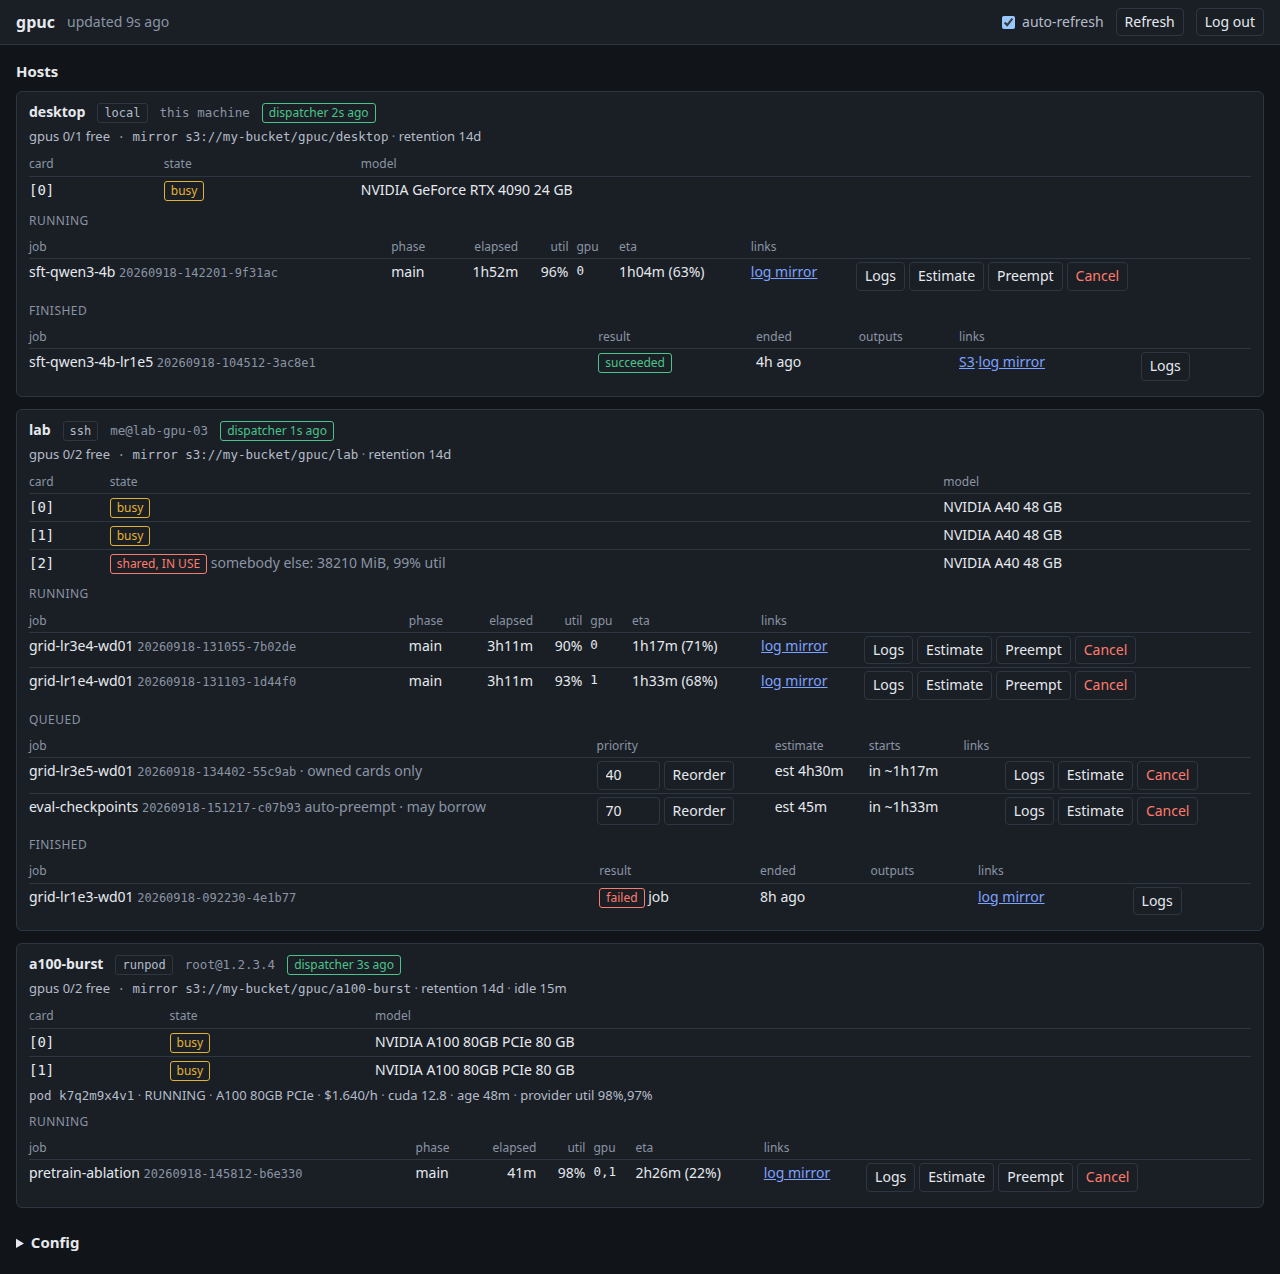
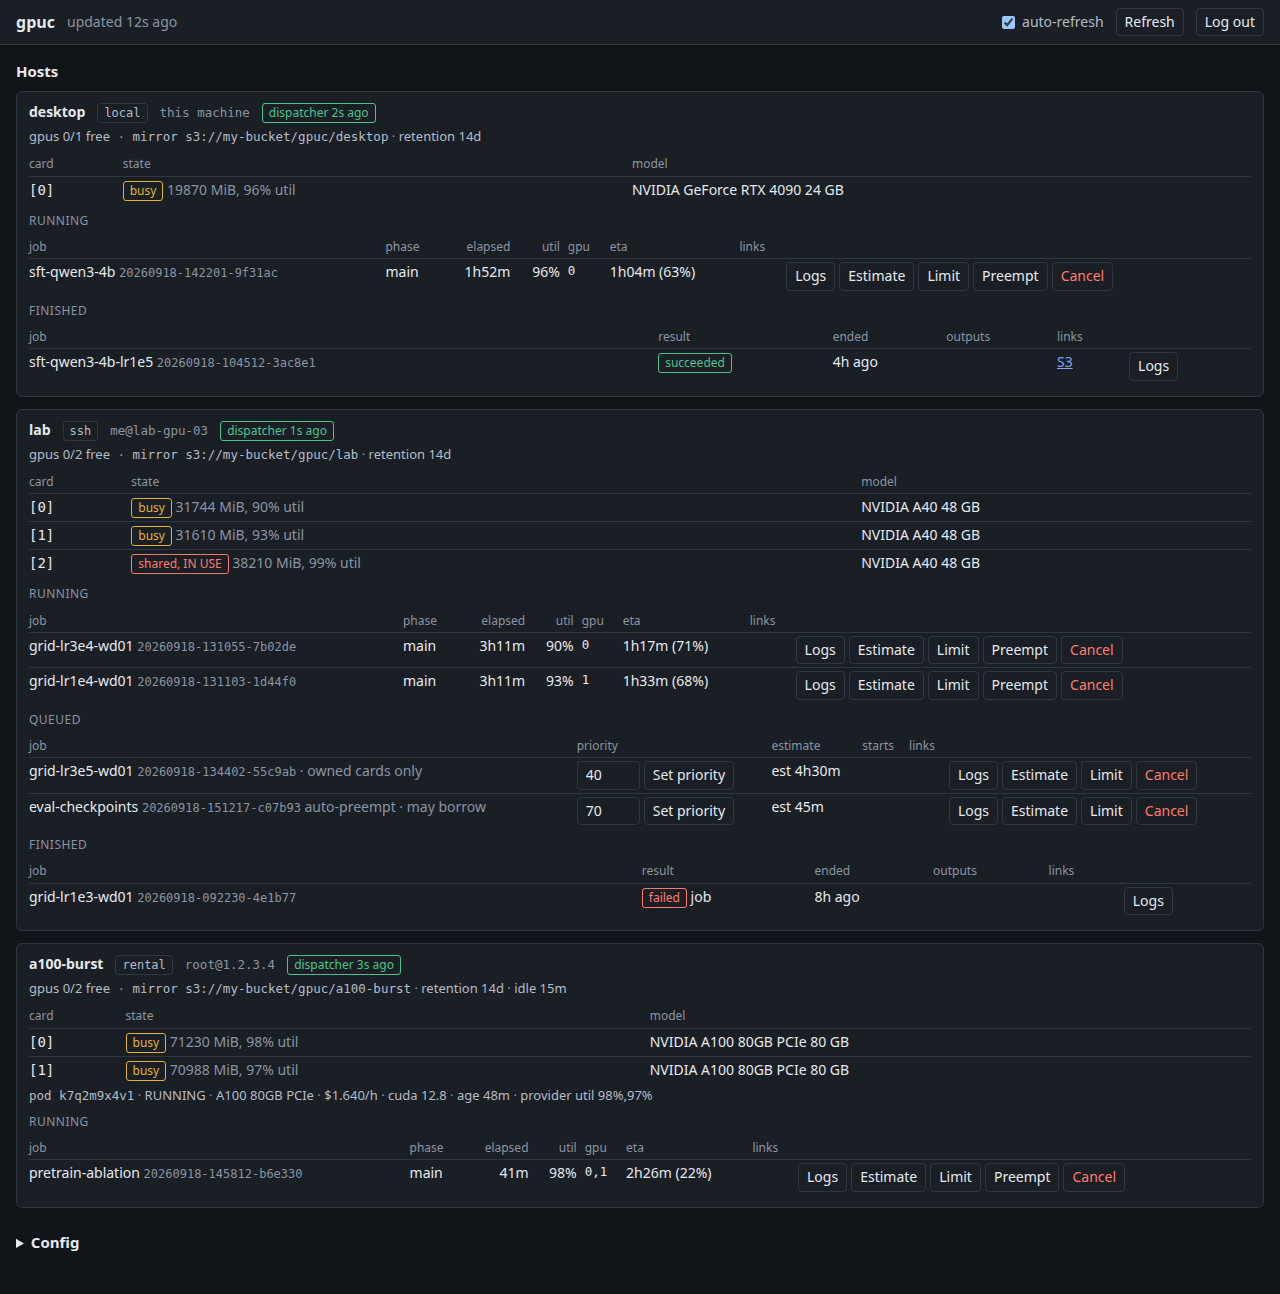
Review: print ? for an unread card, show readings in the demo, pin the shared payload
A shared card nvidia-smi could not read is IN USE for that reason, and the
unified reading dropped the ? MiB, ?% util that said so. Every card now
prints its reading, ? for what is missing. Also fix the usage.md example
and SKILL.md's JSON note, give every demo card a reading and regenerate the
dashboard screenshot, and test the host's shared_gpus_resolved rows.

diff --git a/gpuc/control/web/static/app.js b/gpuc/control/web/static/app.js
@@ -322,7 +322,6 @@ function reading(v) {
 }
 
 function usage(gpu) {
-  if (gpu.utilization_pct == null && gpu.memory_mib == null) return null;
   return el("span", { class: "muted" }, ` ${reading(gpu.memory_mib)} MiB, ${reading(gpu.utilization_pct)}% util`);
 }
 

diff --git a/tests/test_status.py b/tests/test_status.py
@@ -550,7 +550,7 @@ def test_each_owned_card_shows_what_nvidia_smi_just_read_on_it() -> None:
     text = render(host_view)
     assert "gpu     [0] free ? (21504 MiB, 97% util)" in text
     # No reading is no reading, not a zero.
-    assert "[1] free ?\n" in text + "\n"
+    assert "gpu     [1] free ? (? MiB, ?% util)" in text
     cards = host_json(host_view)["gpus"]
     assert (cards[0]["memory_mib"], cards[0]["utilization_pct"]) == (21504.0, 97.0)
     assert (cards[1]["memory_mib"], cards[1]["utilization_pct"]) == (None, None)
@@ -1130,6 +1130,23 @@ def test_a_shared_card_one_of_our_own_jobs_holds_reads_busy_with_its_reading() -
     card = host_json(got)["shared_gpus"][0]
     assert (card["memory_mib"], card["utilization_pct"]) == (8192.0, 90.0)
     assert got.borrowable == []
+
+
+def test_a_shared_card_nvidia_smi_could_not_read_says_so() -> None:
+    """The host reports an unreadable card not unused, so it reads `IN USE`;
+    the question marks are the only thing saying why."""
+    got = shared_view(
+        shared_gpus_resolved=[
+            {
+                "index": 4,
+                "uuid": SHARED,
+                "memory_mib": None,
+                "utilization_pct": None,
+                "unused": False,
+            }
+        ]
+    )
+    assert "shared  [4] IN USE ? (? MiB, ?% util)" in render(got)
 
 
 def test_a_shared_entry_the_host_cannot_see_says_so() -> None:

diff --git a/tests/test_host_cli.py b/tests/test_host_cli.py
@@ -428,6 +428,35 @@ def test_status_resolves_the_owned_gpus(
     assert status["gpus_unavailable"] == ["9"]
 
 
+def test_status_reads_shared_cards_like_owned_ones_plus_whether_they_are_unused(
+    gpuc_home: Path, capsys: pytest.CaptureFixture[str], monkeypatch: pytest.MonkeyPatch
+) -> None:
+    monkeypatch.setattr(
+        cli.gpus,
+        "snapshot",
+        lambda *_: (
+            [cli.gpus.Gpu(0, FAKE_GPUS[0]), cli.gpus.Gpu(1, FAKE_GPUS[1])],
+            {
+                FAKE_GPUS[0]: cli.gpus.Usage(FAKE_GPUS[0], 512.0, 40.0),
+                FAKE_GPUS[1]: cli.gpus.Usage(FAKE_GPUS[1], 0.0, 0.0),
+            },
+        ),
+    )
+    jobs.write_config(HostConfig(host="test-host", gpus=["0"], shared_gpus=["1"]))
+
+    _, status = run(capsys, "status")
+    assert isinstance(status, dict)
+    assert status["shared_gpus_resolved"] == [
+        {
+            "index": 1,
+            "uuid": FAKE_GPUS[1],
+            "memory_mib": 0.0,
+            "utilization_pct": 0.0,
+            "unused": True,
+        }
+    ]
+
+
 def test_status_does_not_flag_a_queued_job_as_holding_outputs(
     gpuc_home: Path, capsys: pytest.CaptureFixture[str]
 ) -> None:

diff --git a/docs/media/demo_state.py b/docs/media/demo_state.py
@@ -82,6 +82,7 @@ def views() -> list[HostView]:
         heartbeat_age_s=2.0,
         owned=[uuid(1)],
         indices={uuid(1): 0},
+        usage={uuid(1): (19870.0, 96.0)},
         running=[
             JobView(
                 job_id="20260918-142201-9f31ac",
@@ -126,7 +127,7 @@ def views() -> list[HostView]:
         heartbeat_age_s=1.0,
         owned=[uuid(2), uuid(3)],
         indices={uuid(2): 0, uuid(3): 1, uuid(4): 2},
-        usage={uuid(4): (38210.0, 99.0)},
+        usage={uuid(2): (31744.0, 90.0), uuid(3): (31610.0, 93.0), uuid(4): (38210.0, 99.0)},
         shared=[SharedGpu(uuid=uuid(4), index=2, unused=False)],
         running=[
             JobView(
@@ -208,6 +209,7 @@ def views() -> list[HostView]:
         heartbeat_age_s=3.0,
         owned=[uuid(5), uuid(6)],
         indices={uuid(5): 0, uuid(6): 1},
+        usage={uuid(5): (71230.0, 98.0), uuid(6): (70988.0, 97.0)},
         pod=Pod(
             id="k7q2m9x4v1",
             name="gpuc-a100-burst",

diff --git a/gpuc/control/status.py b/gpuc/control/status.py
@@ -816,8 +816,9 @@ def gpu_usage(payload: dict[str, Any]) -> dict[str, tuple[float | None, float | 
 
 
 def _usage_note(view: HostView, uuid: str) -> str:
-    reading = view.usage.get(uuid)
-    return f" ({describe_usage(*reading)})" if reading else ""
+    """Printed even with no reading: a shared card nvidia-smi could not read is
+    `IN USE` for exactly that reason, and `(? MiB, ?% util)` is what says so."""
+    return f" ({describe_usage(*view.usage.get(uuid, (None, None)))})"
 
 
 def _gpu_lines(view: HostView) -> list[str]:

diff --git a/docs/usage.md b/docs/usage.md
@@ -258,9 +258,9 @@ is queued either way. A job the dispatcher got to first prints `dispatched
 already; it is running now`. `gpuc set --priority` prints the same line.
 
 **`gpuc status`** — per host: kind, reachability, free cards, dispatcher
-heartbeat, one line per owned card (`free` / `busy` / `UNAVAILABLE`, with the
-memory and utilization nvidia-smi reads on it now, whoever is using it) and per
-[shared](#shared-gpus) one, the queue, running jobs with phase, elapsed time,
+heartbeat, one line per owned card (`free` / `busy` / `UNAVAILABLE`) and per
+[shared](#shared-gpus) one, each with the memory and utilization nvidia-smi
+reads on it now, whoever is using it (`?` for what it could not read), the queue, running jobs with phase, elapsed time,
 last util, the cards they hold (`gpu=2,3`) and any
 [end-time estimate](#job-length-estimates), and recent finished jobs with the
 mean utilization of their cards over `main` (`avg util 22% on 1 gpu`; absent
@@ -276,7 +276,7 @@ host spar [ssh]  gpus 0/2 free (driver 535.309.01)
   dispatcher 2s ago
   gpu     [2] busy NVIDIA A40 45 GB (38912 MiB, 100% util)
   gpu     [3] busy NVIDIA A40 45 GB (38400 MiB, 99% util)
-  shared  [4] free NVIDIA A40 45 GB
+  shared  [4] free NVIDIA A40 45 GB (0 MiB, 0% util)
   shared  [5] IN USE NVIDIA A40 45 GB (21504 MiB, 98% util)
   running paper-diff (20260915-222409-7a2b60) phase=main 1h16m util 100% gpu=2
   running paper-plain (20260915-224057-9f10c3) phase=main 59m util 100% gpu=3
@@ -284,9 +284,8 @@ host spar [ssh]  gpus 0/2 free (driver 535.309.01)
 ```
 
 On a `shared` line, `free` means gpuc would take the card right now, `busy` means
-one of *our* jobs has it, and `IN USE` means somebody else does. Every card
-line ends with the memory and utilization nvidia-smi just read on it, whoever
-is using it.
+one of *our* jobs has it, and `IN USE` means somebody else does, or that
+nvidia-smi could not read the card.
 
 `--host H` narrows it; `--recent N` (default 5) and `--since 24h|7d|90m` (a bare
 number means hours) choose how much of the finished list each host sends; `--all`

diff --git a/skills/gpuc/SKILL.md b/skills/gpuc/SKILL.md
@@ -263,8 +263,8 @@ starts_in_s, starts_at, starts_unknown, iso, ended_at, outputs_pending`
 jobs only the index knows, each `{job_id, name, host, host_state, status,
 requeue, requeued_from, submitted_at, s3_prefix, outputs_lost}`. **Requeue one only if
 `requeue` is true**: an `unaskable` host may still be running that job, and a
-second copy is not recovery. Each entry in `shared_gpus` adds `memory_mib`,
-`utilization_pct` and `unused`.
+second copy is not recovery. Every card in `gpus` and `shared_gpus` carries
+`memory_mib` and `utilization_pct`; each shared one adds `unused`.
 
 `priority` (0-99, **lower runs first**) is the field that explains queue order,
 and `queued` is already in dispatch order. `starts_in_s` is when that job's
